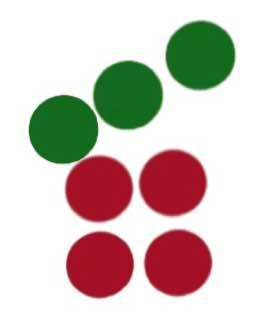
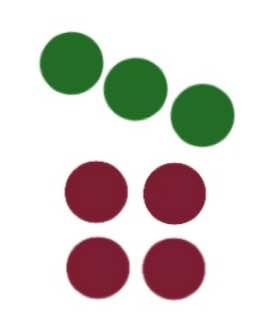
feat(*): update tile, dockercompose and readme.

diff --git a/README.md b/README.md
@@ -1,18 +1,20 @@
 # mahjong
-A minimalist multiplayer SG mahjong web app
+[![Netlify Status](https://api.netlify.com/api/v1/badges/6633457d-79a8-4074-b460-a131fa8dc73d/deploy-status)](https://app.netlify.com/sites/tableswim/deploys)
 
+A minimalist online multiplayer mahjong game for friends.
+
+A hosted version of this app is available on [www.tableswim.netlify.app](https://tableswim.netlify.app/).
 
 ## Design 
 * player makes decision -> minimal computer intervention
 * no rules imposed (computer doesnt count points)
 
 ## Deployment
+Frontend is deployed on Netlify under free tier. Backend is deployed via
+docker-compose files in the smallest DigitalOcean droplet there is. 
+
+References: https://www.digitalocean.com/community/tutorials/how-to-deploy-a-go-web-application-with-docker-and-nginx-on-ubuntu-18-04
 
 ## Contributing
-
-## TODO
-1. create new game
-2. set limit of games
-2. basic front end 
-
-* LOCK ON game if it is a move 
+All sorts of contributions are welcomed, in particular, styling (CSS/html) and
+bugfix. 
